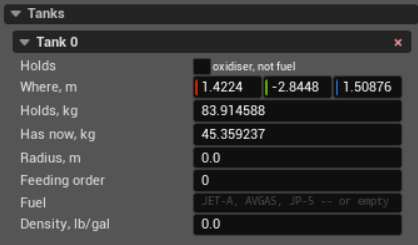
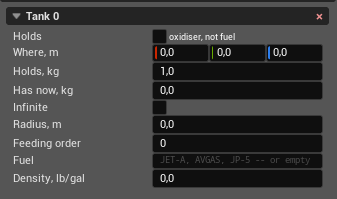
Document infinite tanks

diff --git a/docs/source/editor/tanks.rst b/docs/source/editor/tanks.rst
@@ -45,6 +45,13 @@ every additional tank has the same fields.
    flight model is restarted. The panel allows a value greater than **Holds**,
    but JSBSim then refuses to load the aircraft.
 
+**Infinite**
+   Allows engines to consume from the tank without reducing its contents.
+   PteroSim saves the contents before each physics step and restores the same
+   value after JSBSim runs the step. The tank's mass and its effect on the
+   centre of gravity therefore remain constant. **Has now** must still be
+   greater than zero: an empty infinite tank does not feed an engine.
+
 **Radius, m**
    Equivalent radius used to calculate the contents' own moment of inertia.
    For a liquid tank, JSBSim treats the contents as a solid sphere of constant
